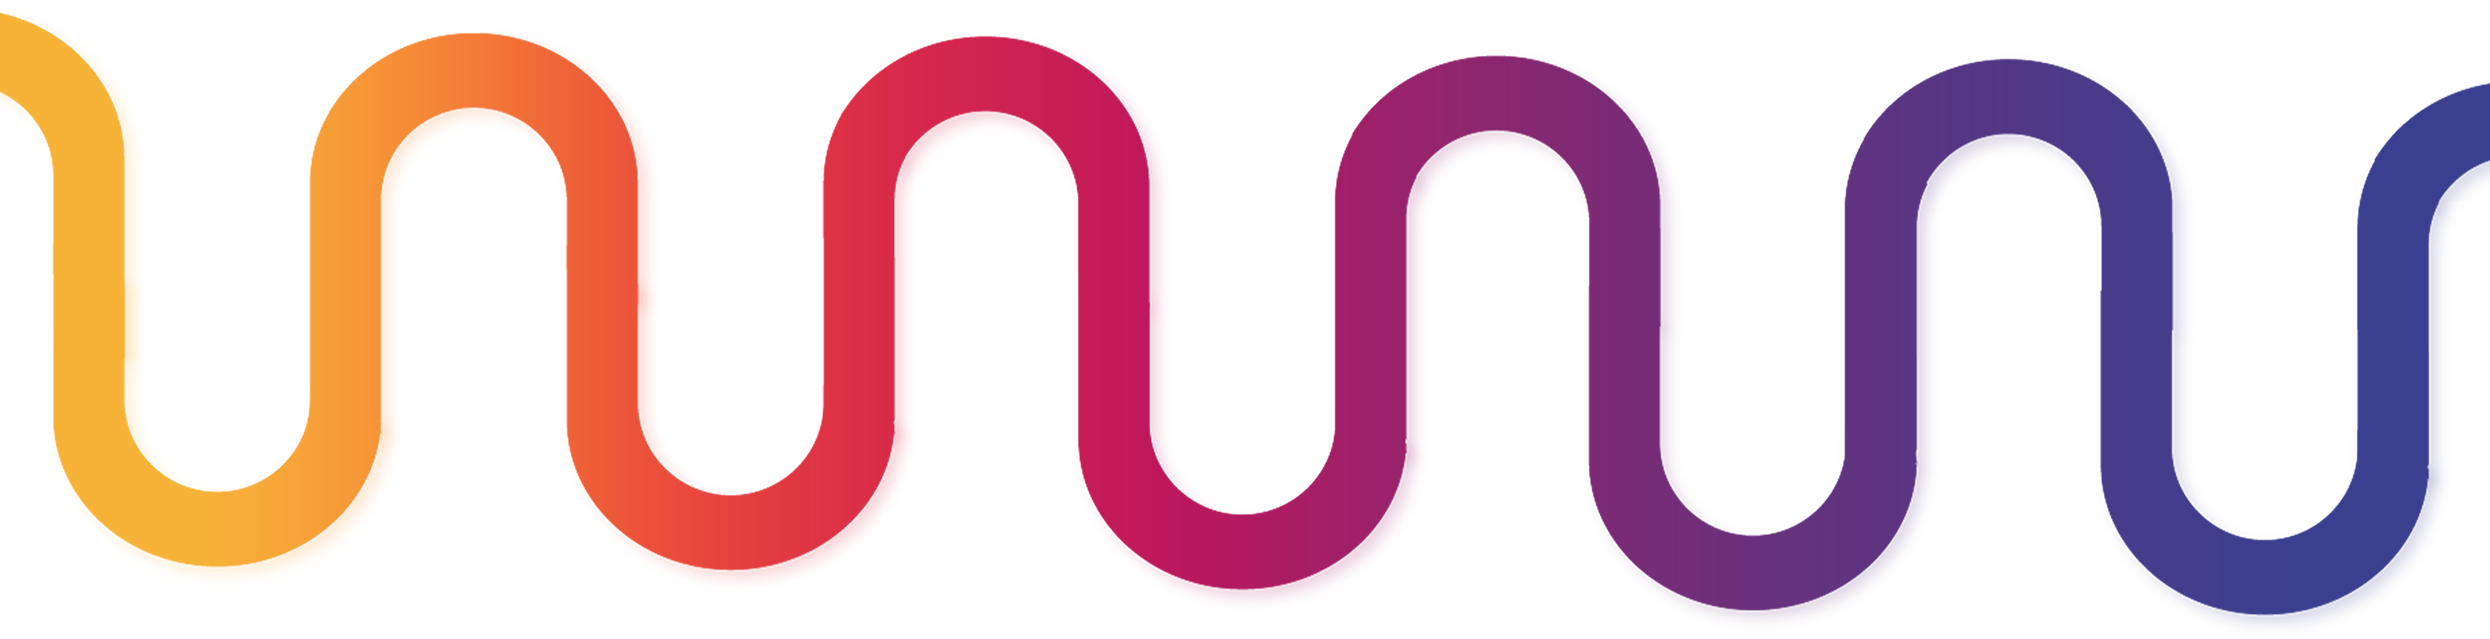
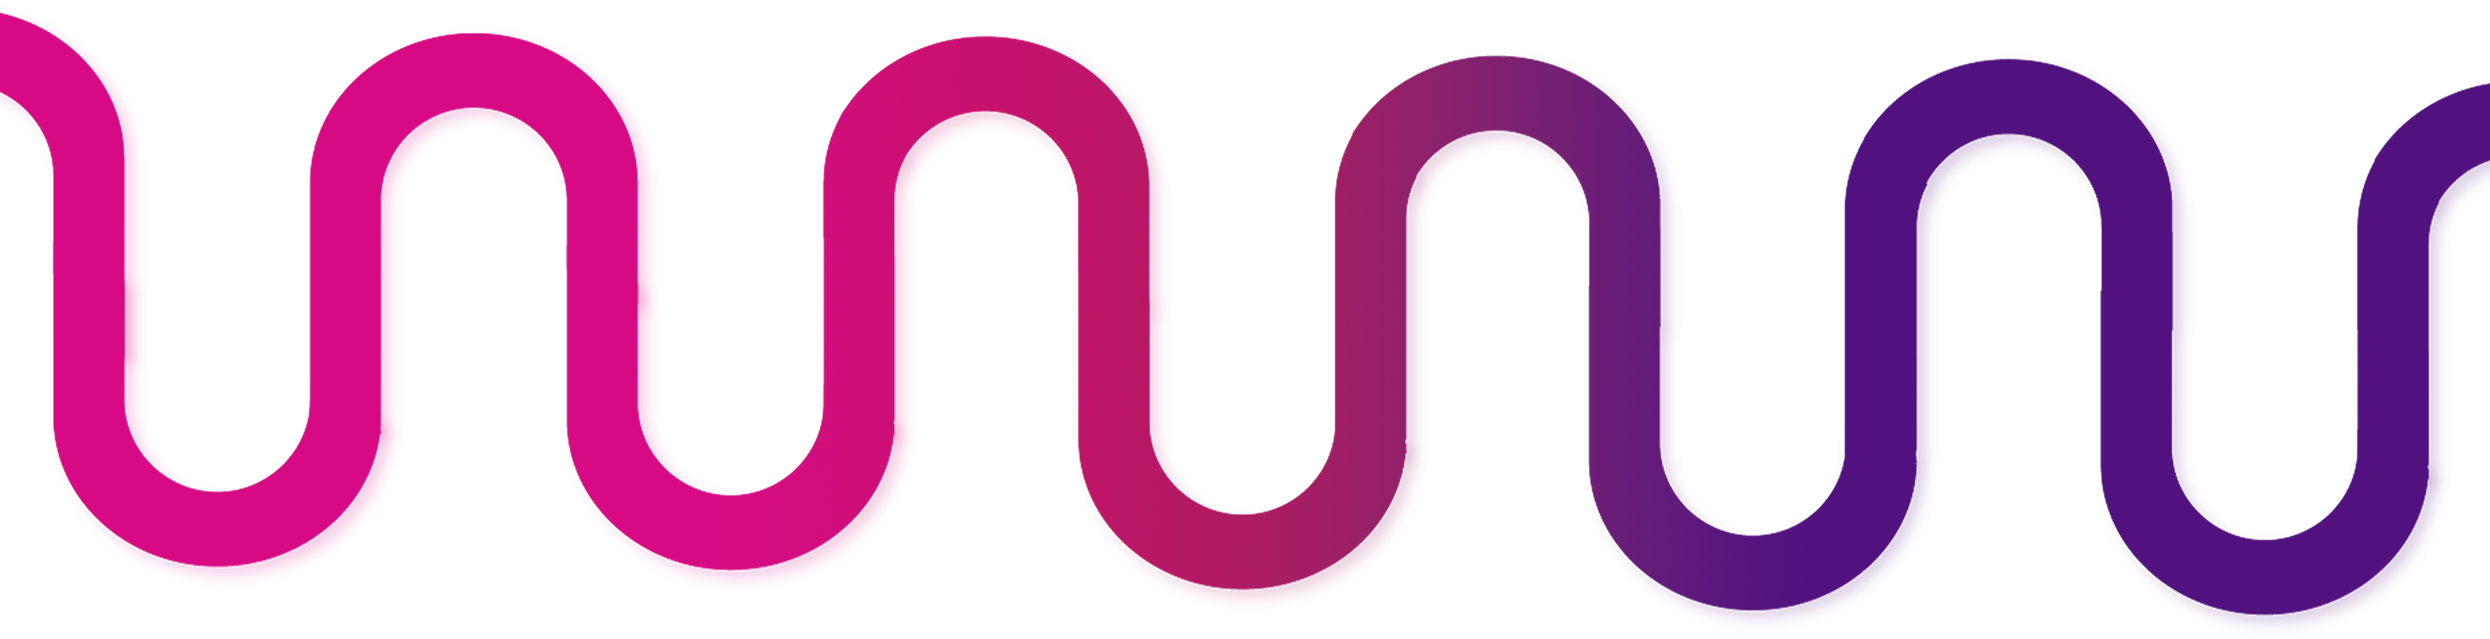
update-77

Changed region(s): [[0.0, 0.0297, 0.4329, 0.892], [0.6803, 0.0892, 1.0, 0.9812]]

diff --git a/src/components/Product.js b/src/components/Product.js
@@ -8,88 +8,59 @@ import BusinessIcon from '../img/3ON.png';
 const Card = ({ iconSrc, title, description, className }) => {
   return (
     <div
-      className={`relative flex flex-col items-center justify-center p-6 rounded-lg border-2 shadow-sm bg-transparent transition-all duration-300 ${className}`}
+      className={`relative flex flex-col items-center justify-center p-6 rounded-lg bg-gray-900 bg-opacity-50 border border-gray-700 shadow-lg transform transition-transform duration-500 hover:scale-105 ${className}`}
       style={{
-        borderImage: 'linear-gradient(45deg, #d93775, #7238b4) 1',
-        height: '100%', // Ensures the card takes up the full height of its container
+        borderImage: 'linear-gradient(45deg, #00ffff, #ff00ff) 1',
+        boxShadow: '0 8px 20px rgba(0, 0, 0, 0.5)',
+        backdropFilter: 'blur(10px)',
       }}
     >
       <div
-        className="flex flex-col items-center justify-center text-center"
-        style={{ height: '100%' }} // Ensures content is centered vertically
+        className="w-26 h-26 mb-4"
+        style={{
+          width: '150px',
+          height: '150px',
+          backgroundImage: 'linear-gradient(45deg, #d93775, #7238b4)',
+          WebkitMask: `url(${iconSrc}) center/contain no-repeat`,
+          mask: `url(${iconSrc}) center/contain no-repeat`,
+          WebkitMaskComposite: 'source-in',
+          maskComposite: 'source-in',
+        }}
+      />
+      <h5
+        className="mb-2 text-xl font-bold"
+        style={{
+          fontFamily: 'Orbitron',
+          background: 'linear-gradient(45deg, #d93775, #7238b4)',
+          WebkitBackgroundClip: 'text',
+          backgroundClip: 'text',
+          color: 'transparent',
+        }}
       >
-        <div
-          className="w-26 h-26 mb-4"
-          style={{
-            width: '150px',
-            height: '150px',
-            backgroundImage: 'linear-gradient(45deg, #d93775, #7238b4)',
-            WebkitMask: `url(${iconSrc}) center/contain no-repeat`,
-            mask: `url(${iconSrc}) center/contain no-repeat`,
-            WebkitMaskComposite: 'source-in',
-            maskComposite: 'source-in',
-          }}
-        />
-        <h5
-          className="mb-2 text-xl font-bold"
-          style={{
-            fontFamily: 'Orbitron',
-            background: 'linear-gradient(45deg, #d93775, #7238b4)',
-            WebkitBackgroundClip: 'text',
-            backgroundClip: 'text',
-            color: 'transparent',
-          }}
-        >
-          {title}
-        </h5>
-        <p
-          className="text-base"
-          style={{
-            fontFamily: 'Poppins',
-            background: 'linear-gradient(45deg, #d93775, #7238b4)',
-            WebkitBackgroundClip: 'text',
-            backgroundClip: 'text',
-            color: 'transparent',
-          }}
-        >
-          {description}
-        </p>
-      </div>
+        {title}
+      </h5>
+      <p
+        className="text-base text-gray-300"
+        style={{
+          fontFamily: 'Poppins',
+          textAlign: 'center',
+        }}
+      >
+        {description}
+      </p>
     </div>
   );
 };
 
 const GridComponent = () => {
   useEffect(() => {
-    ScrollReveal().reveal('.card-from-top1', { 
-      origin: 'top',
-      distance: '80px',
-      duration: 2000,
-      easing: 'cubic-bezier(0.5, 0, 0, 1)',
-      reset: true
-    });
-
-    ScrollReveal().reveal('.card-from-top2', { 
-      origin: 'top',
-      distance: '100px',
-      duration: 3000,
-      easing: 'cubic-bezier(0.5, 0, 0, 1)',
-      reset: true
-    });
-
-    ScrollReveal().reveal('.card-from-top3', { 
-      origin: 'top',
-      distance: '120px',
-      duration: 6300,
-      easing: 'cubic-bezier(0.5, 0, 0, 1)',
-      reset: true
-    });
-
-    ScrollReveal().reveal('.card-from-bottom', { 
+    ScrollReveal().reveal('.card-reveal', { 
+      duration: 1000,
+      distance: '50px',
+      easing: 'ease-in-out',
       origin: 'bottom',
-      distance: '120px',
-      duration: 1200,
-      easing: 'cubic-bezier(0.5, 0, 0, 1)',
+      opacity: 0,
+      scale: 0.9,
       reset: true
     });
   }, []);
@@ -113,26 +84,26 @@ const GridComponent = () => {
           <Card 
             iconSrc={EventIcon}
             title="Wesafar Event & 1:1"
-            description="Wesafar Events provides a platform where business partners can host physical or live-streamed events, allowing attendees to participate or start their own streams. Wesafar 1:1 offers private, personalized interactions with destinations and local businesses, enhancing the travel experience. The Wesafar app enables business partners to promote their activities directly to users, fostering a direct, enriched connection that allows for effective showcasing of offerings and easy discovery of authentic experiences."
-            className="card-from-bottom"
+            description="Wesafar Events provides a platform where business partners can host physical or live-streamed events, allowing attendees to participate or start their own streams. Wesafar 1:1 offers private, personalized interactions with destinations and local businesses, enhancing the travel experience."
+            className="card-reveal"
           />
           <Card 
             iconSrc={AiIcon}
             title="TripWise Ai"
-            description="TripWise offers a distinctive experience to trippers and business partners through its sophisticated AI capabilities: personalized trip planning, tailored travel recommendations, and community moderation, interactive travel assistants, engagement metrics, and real-time cultural exchanges. This travel-focused web app leverages cutting-edge technology to make every journey more insightful, connected, and effortlessly enjoyable."
-            className="card-from-bottom"
+            description="TripWise offers a distinctive experience to trippers and business partners through its sophisticated AI capabilities: personalized trip planning, tailored travel recommendations, and community moderation."
+            className="card-reveal"
           />
           <Card 
             iconSrc={MetaverseIcon}
             title="Wesafar Metaverse"
-            description="Dive into a virtual world of travel and adventure. Engage in live virtual events, interactive quests, and explore unique virtual goods to enhance your travel experience. This digital realm offers an immersive gateway to not only see the world from the comfort of your home but to actively participate in its cultures and stories, enriching your real-world travel aspirations with every virtual adventure."
-            className="card-from-bottom"
+            description="Dive into a virtual world of travel and adventure. Engage in live virtual events, interactive quests, and explore unique virtual goods to enhance your travel experience."
+            className="card-reveal"
           />
           <Card 
             iconSrc={BusinessIcon}
             title="Business"
-            description="The Wesafar app empowers business partners to connect directly with Trippers, promoting their activities on the platform without intermediaries. Transitioning from customer to creator, this direct link fosters a streamlined and enriched engagement, allowing business partners to showcase their offerings more effectively and Trippers to discover authentic experiences with ease."
-            className="card-from-bottom"
+            description="The Wesafar app empowers business partners to connect directly with Trippers, promoting their activities on the platform without intermediaries."
+            className="card-reveal"
           />
         </div>
       </div>

diff --git a/src/components/RoadMap.js b/src/components/RoadMap.js
@@ -15,16 +15,17 @@ const points = [
 ];
 
 const colors = [
-  '#f7b338',
-  '#f47e37',
-  '#e6433e',
   '#cf2351',
-  '#b01a62',
-  '#872871',
-  '#6a307b',
-  '#593582',
+  '#c2255b',
+  '#b62865',
+  '#aa2b70',
+  '#9e2d7b',
+  '#933186',
+  '#873491',
+  '#7a379c',
   '#3c3f8f',
 ];
+
 
 const phases = [
   {
@@ -224,6 +225,7 @@ const ImageGallery = () => {
     const adjustedTop = window.innerWidth === 1024 ? adjustPosition(top, -2) : top;
 
     const isHoveredOrSelected = hoveredIndex === index || selectedIndex === index;
+    const isSelected = selectedIndex === index;
 
     return {
       position: 'absolute',
@@ -232,12 +234,17 @@ const ImageGallery = () => {
       width: isMobile ? '20px' : '40px',
       height: isMobile ? '20px' : '40px',
       borderRadius: '50%',
-      backgroundColor: colors[index],
-      transition: 'transform 0.3s, box-shadow 0.3s',
-      boxShadow: `0 0 10px 2px ${colors[index]}`,
+      background: isSelected
+        ? `radial-gradient(circle at center, ${colors[index]}, #000000)`
+        : colors[index],
+      transition: 'transform 0.3s, box-shadow 0.3s, background 0.3s',
+      boxShadow: isSelected
+        ? `0 0 20px 10px ${colors[index]}, 0 0 40px 20px rgba(0, 0, 0, 0.5)`
+        : `0 0 10px 2px ${colors[index]}`,
       transform: isHoveredOrSelected ? 'scale(1.5)' : 'scale(1)',
+      animation: isSelected ? 'pulse 1.5s infinite' : 'none',
       cursor: 'pointer',
-      zIndex: 5, // Ensure the points are above the video and overlay
+      zIndex: 5,
     };
   };
 
@@ -347,9 +354,26 @@ const ImageGallery = () => {
   );
 };
 
+// Add CSS for pulse animation
 const App = () => {
   return (
     <div className="App">
+      <style>{`
+        @keyframes pulse {
+          0% {
+            transform: scale(1);
+            box-shadow: 0 0 10px 2px rgba(255, 255, 255, 0.8);
+          }
+          50% {
+            transform: scale(1.2);
+            box-shadow: 0 0 20px 10px rgba(255, 255, 255, 0.5);
+          }
+          100% {
+            transform: scale(1);
+            box-shadow: 0 0 10px 2px rgba(255, 255, 255, 0.8);
+          }
+        }
+      `}</style>
       <ImageGallery />
     </div>
   );
